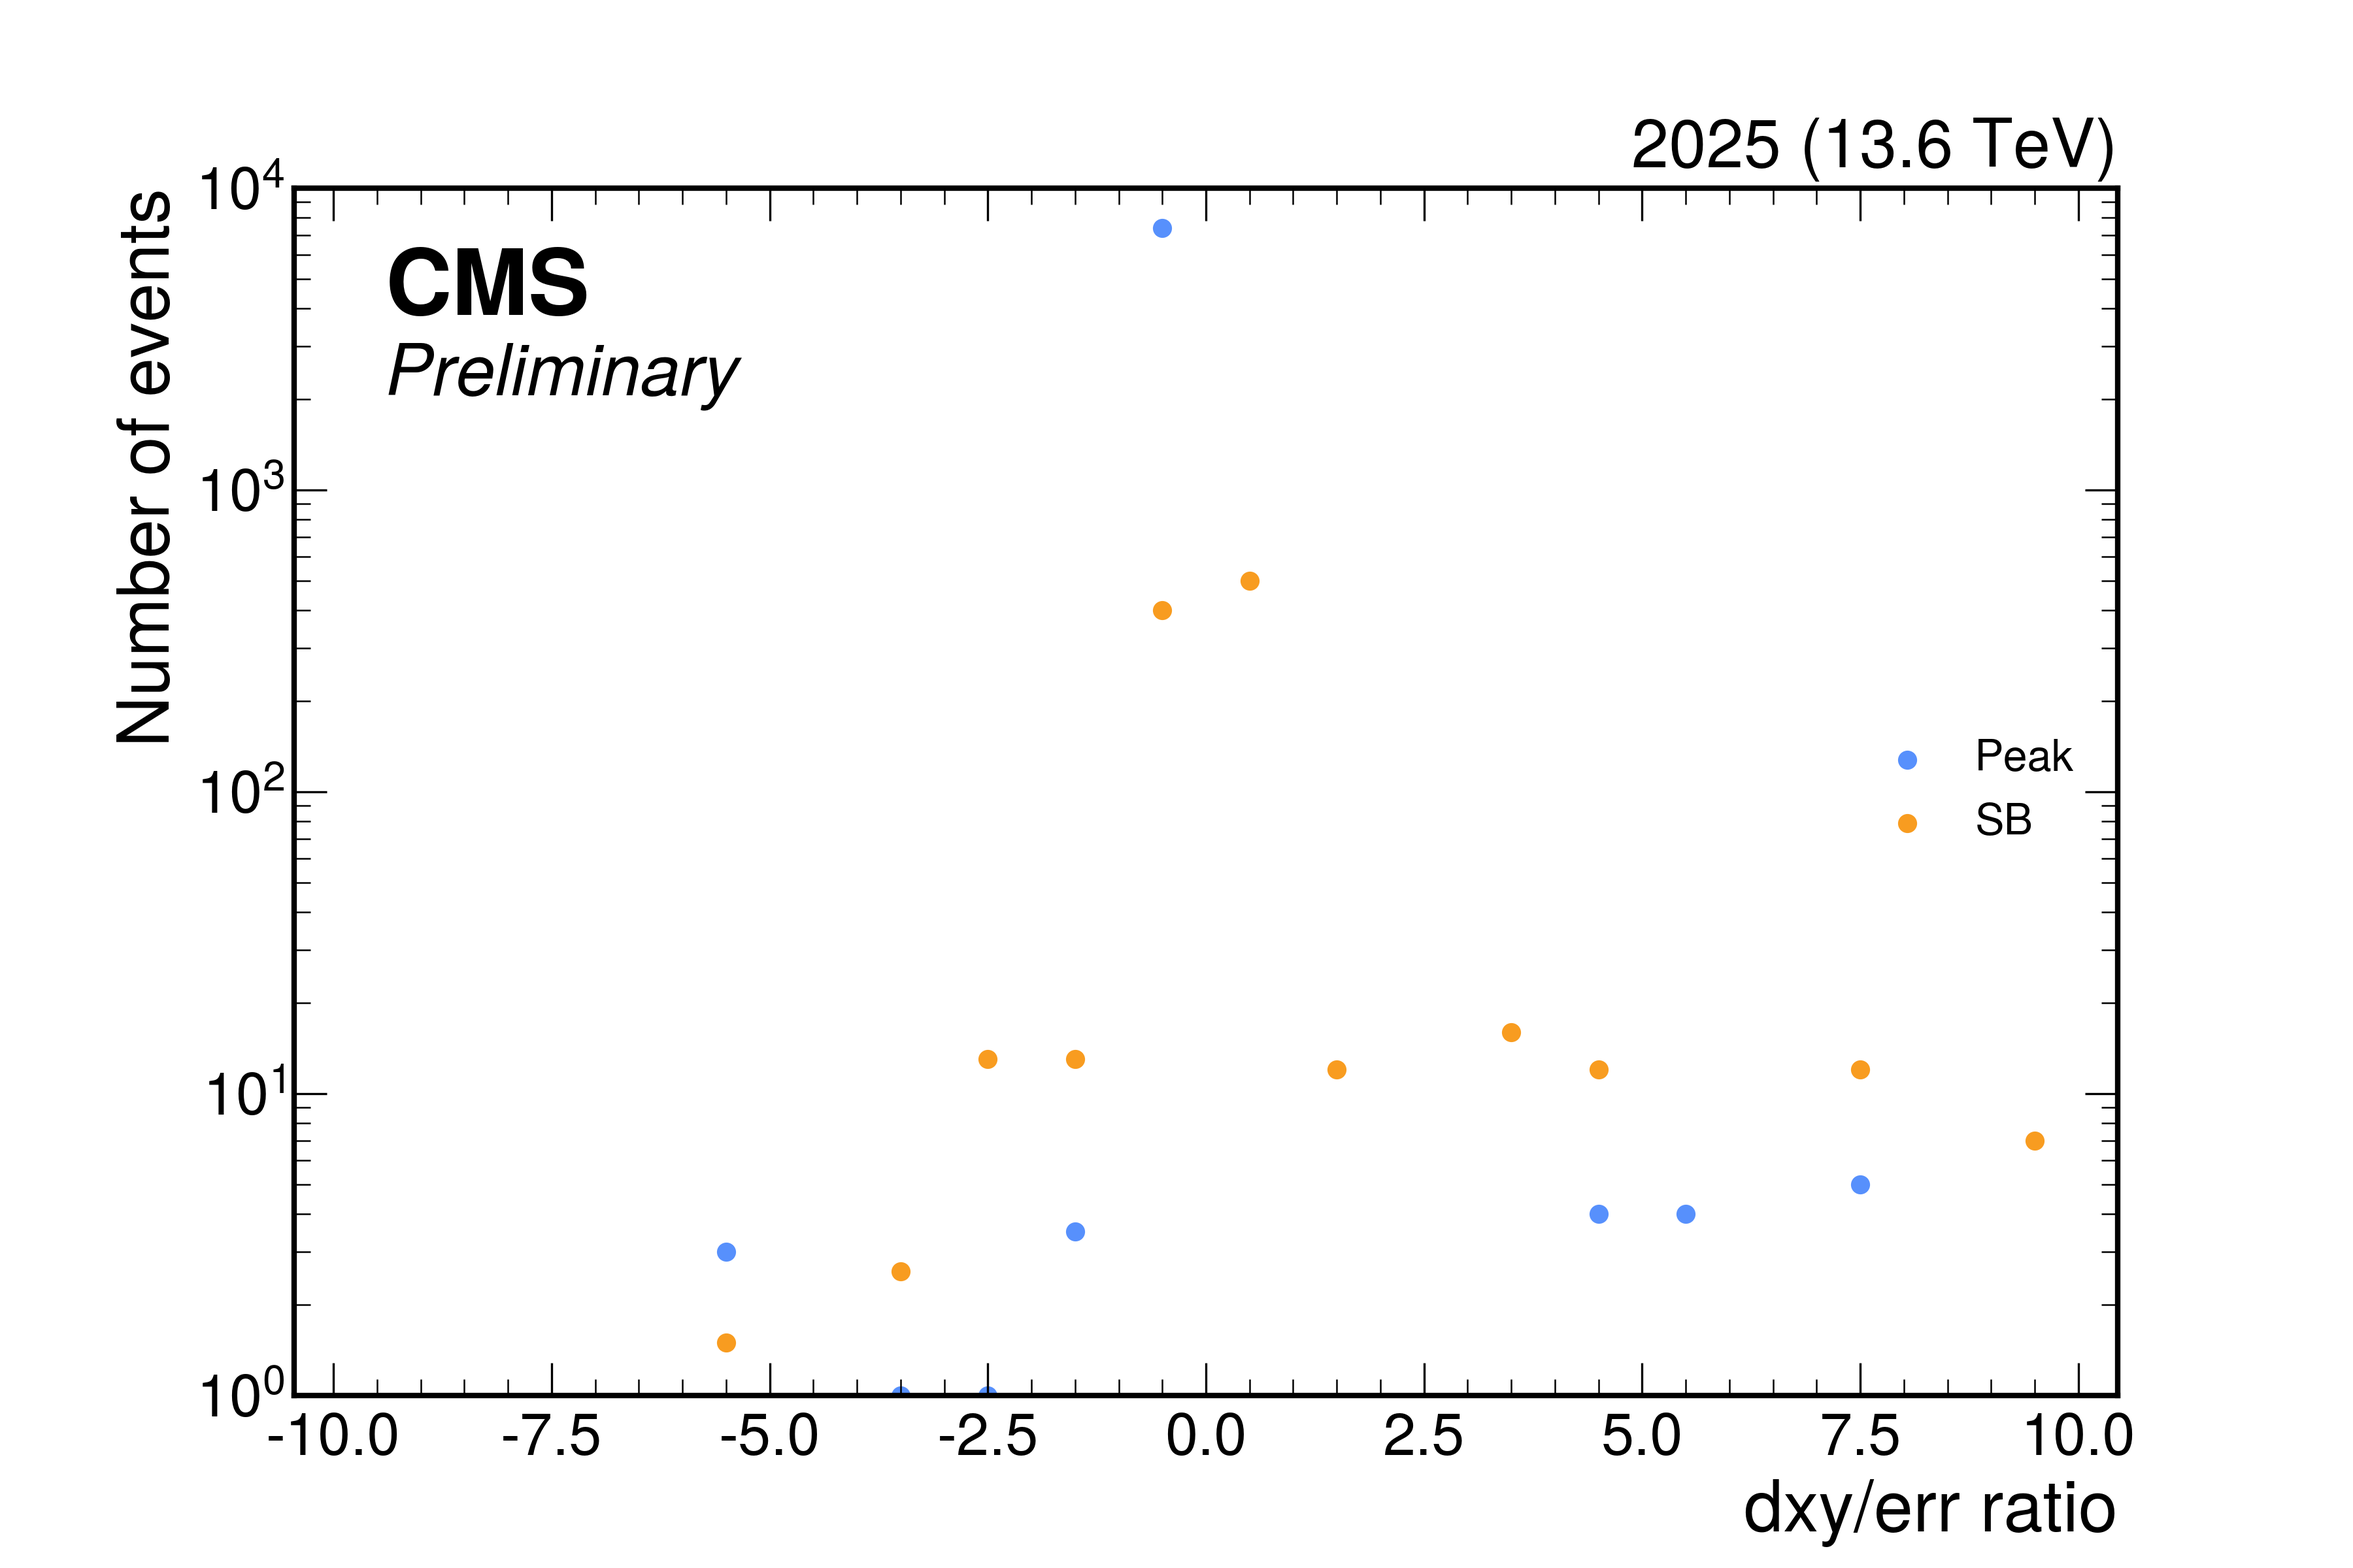
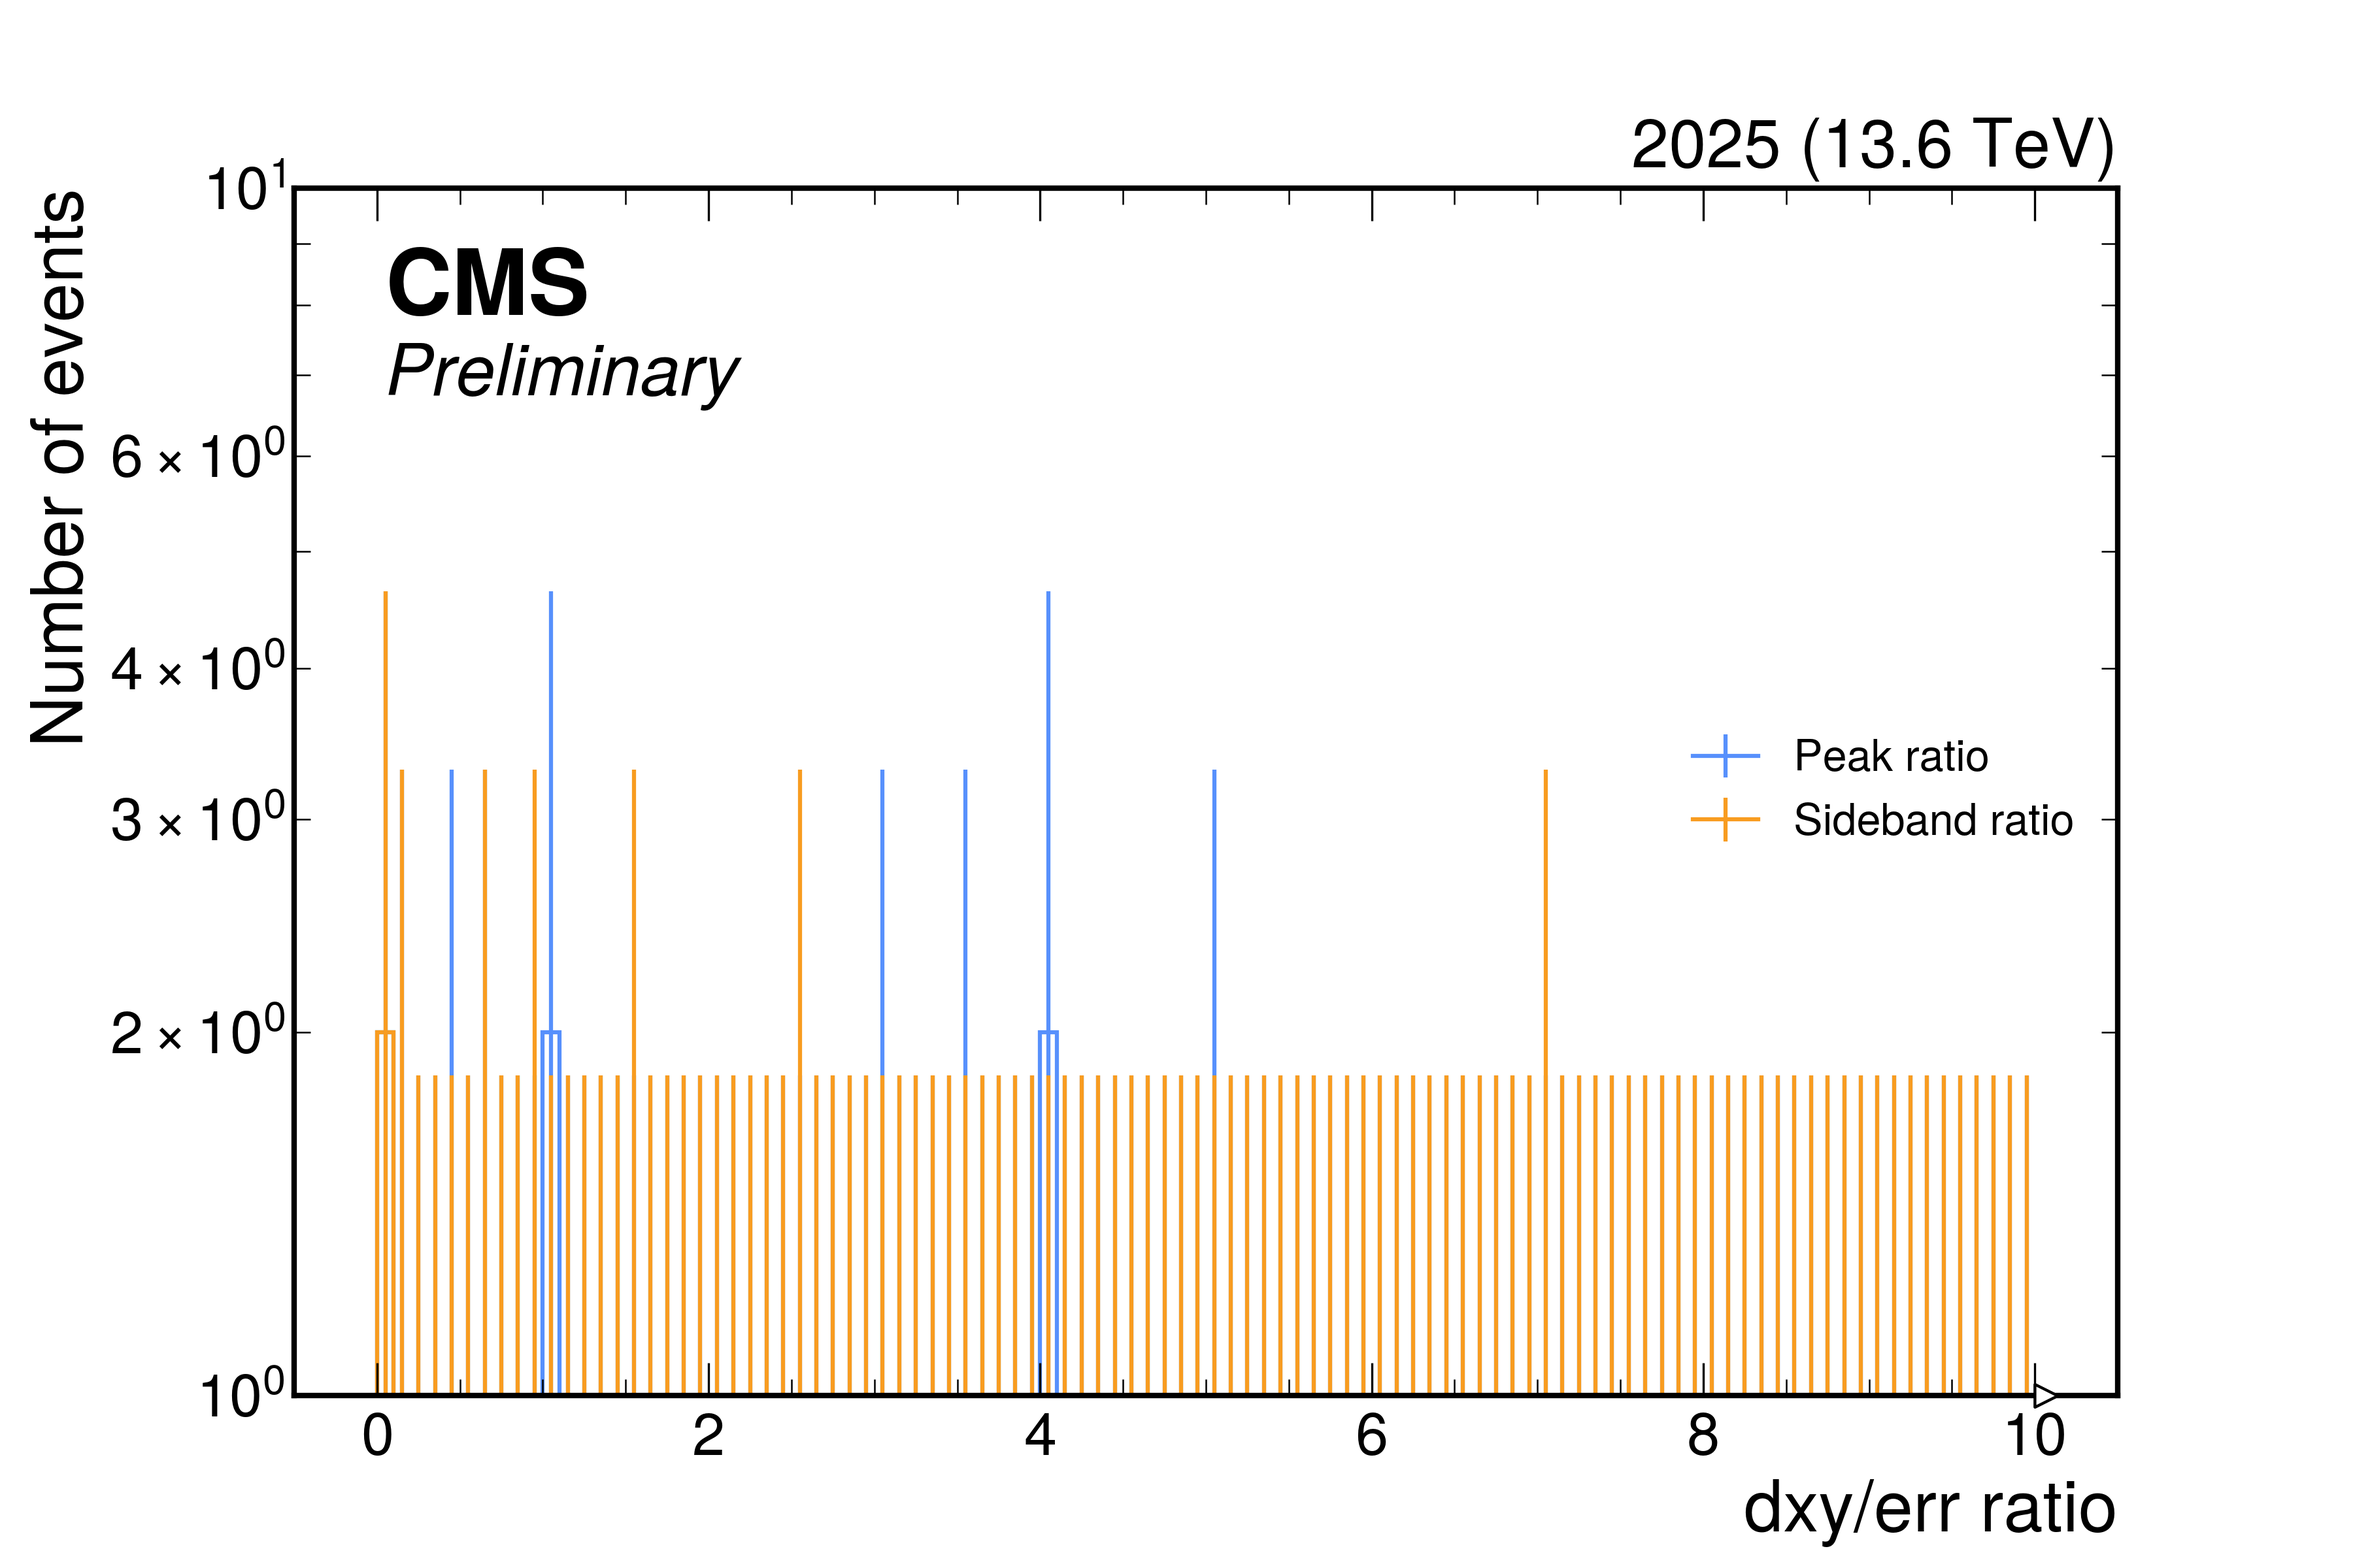
debug

diff --git a/draw.py b/draw.py
@@ -187,15 +187,26 @@ sidebands_bin_values = h_dxy_sidebands.values()
 sidebands_err_values = h_dxyErr_sidebands.values()
 sidebands_bin_centers = h_dxy_sidebands.axes[0].centers
 
-ratioValues = abs(peak_bin_values)/peak_err_values
-plt.scatter(peak_bin_centers, ratioValues, label="Peak")
+print(np.abs(peak_bin_values))
+print(peak_err_values)
+ratioValues = np.abs(peak_bin_values)/peak_err_values
+h_ratio_pk = hist.new.Reg(100, 0, 10, name="ratio_pk", label="ratio_pk").Double()
+for value in ratioValues:
+    h_ratio_pk.fill(ratio_pk=value)
+h_ratio_pk.plot(ax=ax, label="Peak ratio")
+
 
 yMin = 1
-yMax = 10**np.ceil(np.log10(bin_values.max()))
+yMax = 10**np.ceil(np.log10(h_ratio_pk.values().max()))
 
 ratioValues = np.abs(sidebands_bin_values)/sidebands_err_values
-plt.scatter(peak_bin_centers, ratioValues, label="SB")
+h_ratio_sb = hist.new.Reg(100, 0, 10, name="ratio_sb", label="ratio_sb").Double()
+for value in ratioValues:
+    h_ratio_sb.fill(ratio_sb=value)
+h_ratio_sb.plot(ax=ax, label="Sideband ratio")
 
+print(np.abs(sidebands_bin_values))
+print(sidebands_err_values)
 
 
 ax.set_ylim(yMin, yMax)
